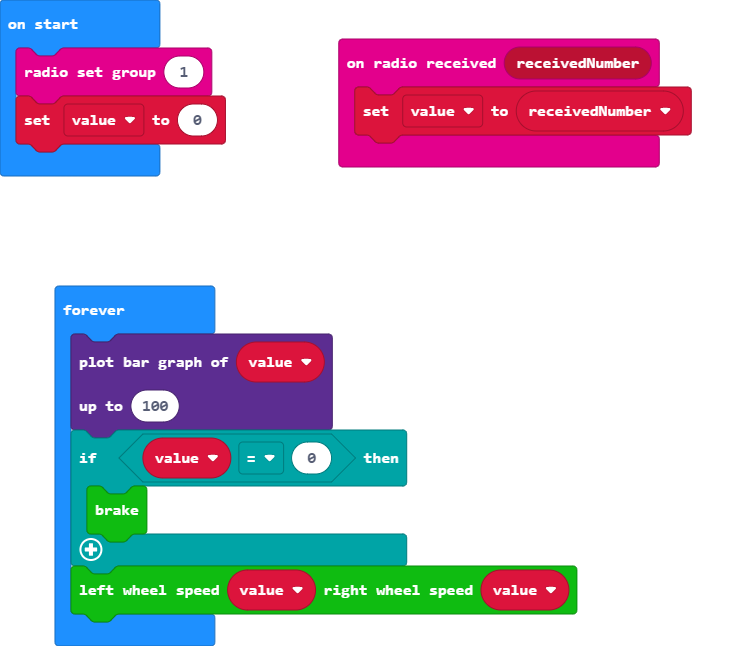
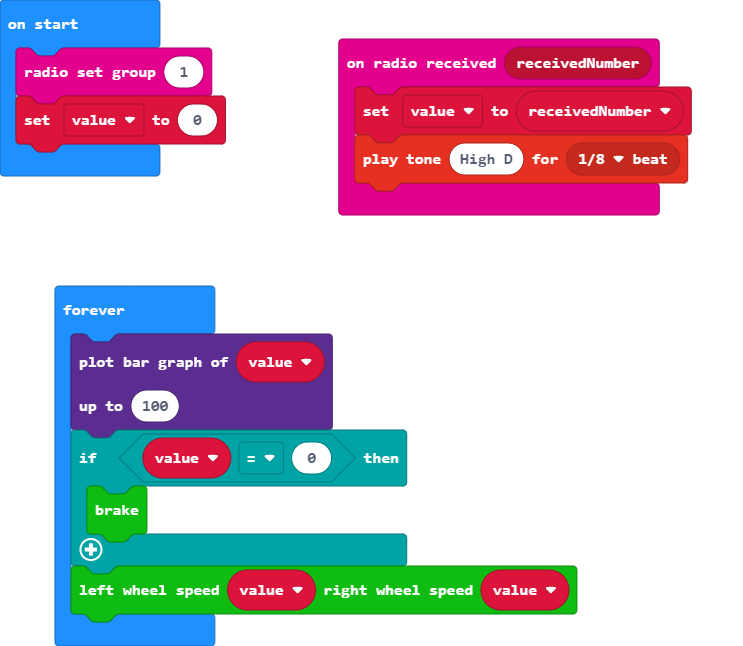
Update main.blocks, main.ts

Changed region(s): [[0.4334, 0.1858, 0.9287, 0.3406]]

diff --git a/main.ts b/main.ts
@@ -1,5 +1,6 @@
 radio.onReceivedNumber(function (receivedNumber) {
     value = receivedNumber
+    music.playTone(587, music.beat(BeatFraction.Eighth))
 })
 let value = 0
 radio.setGroup(1)
